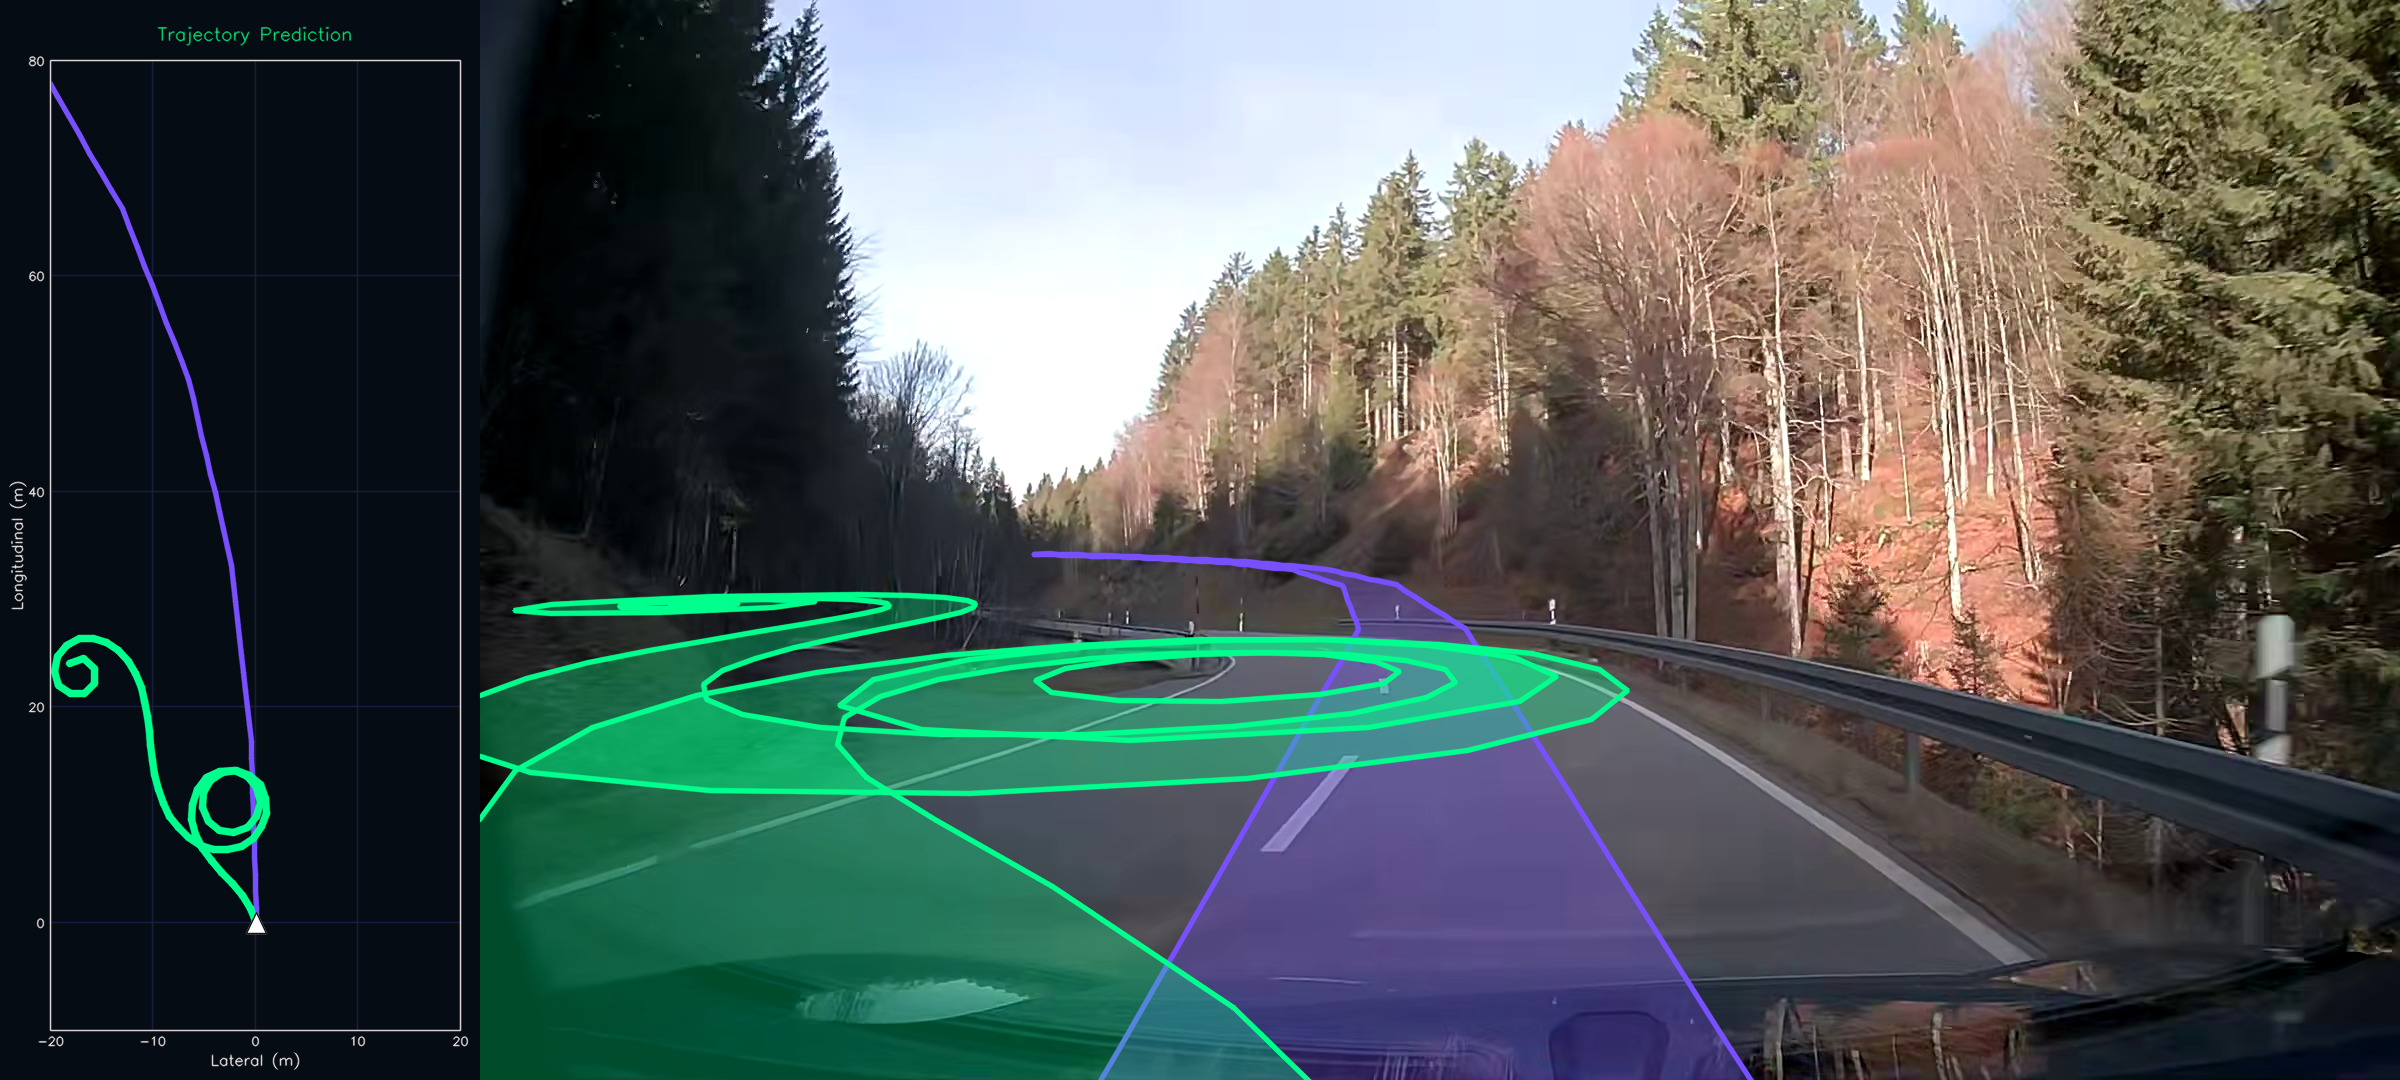
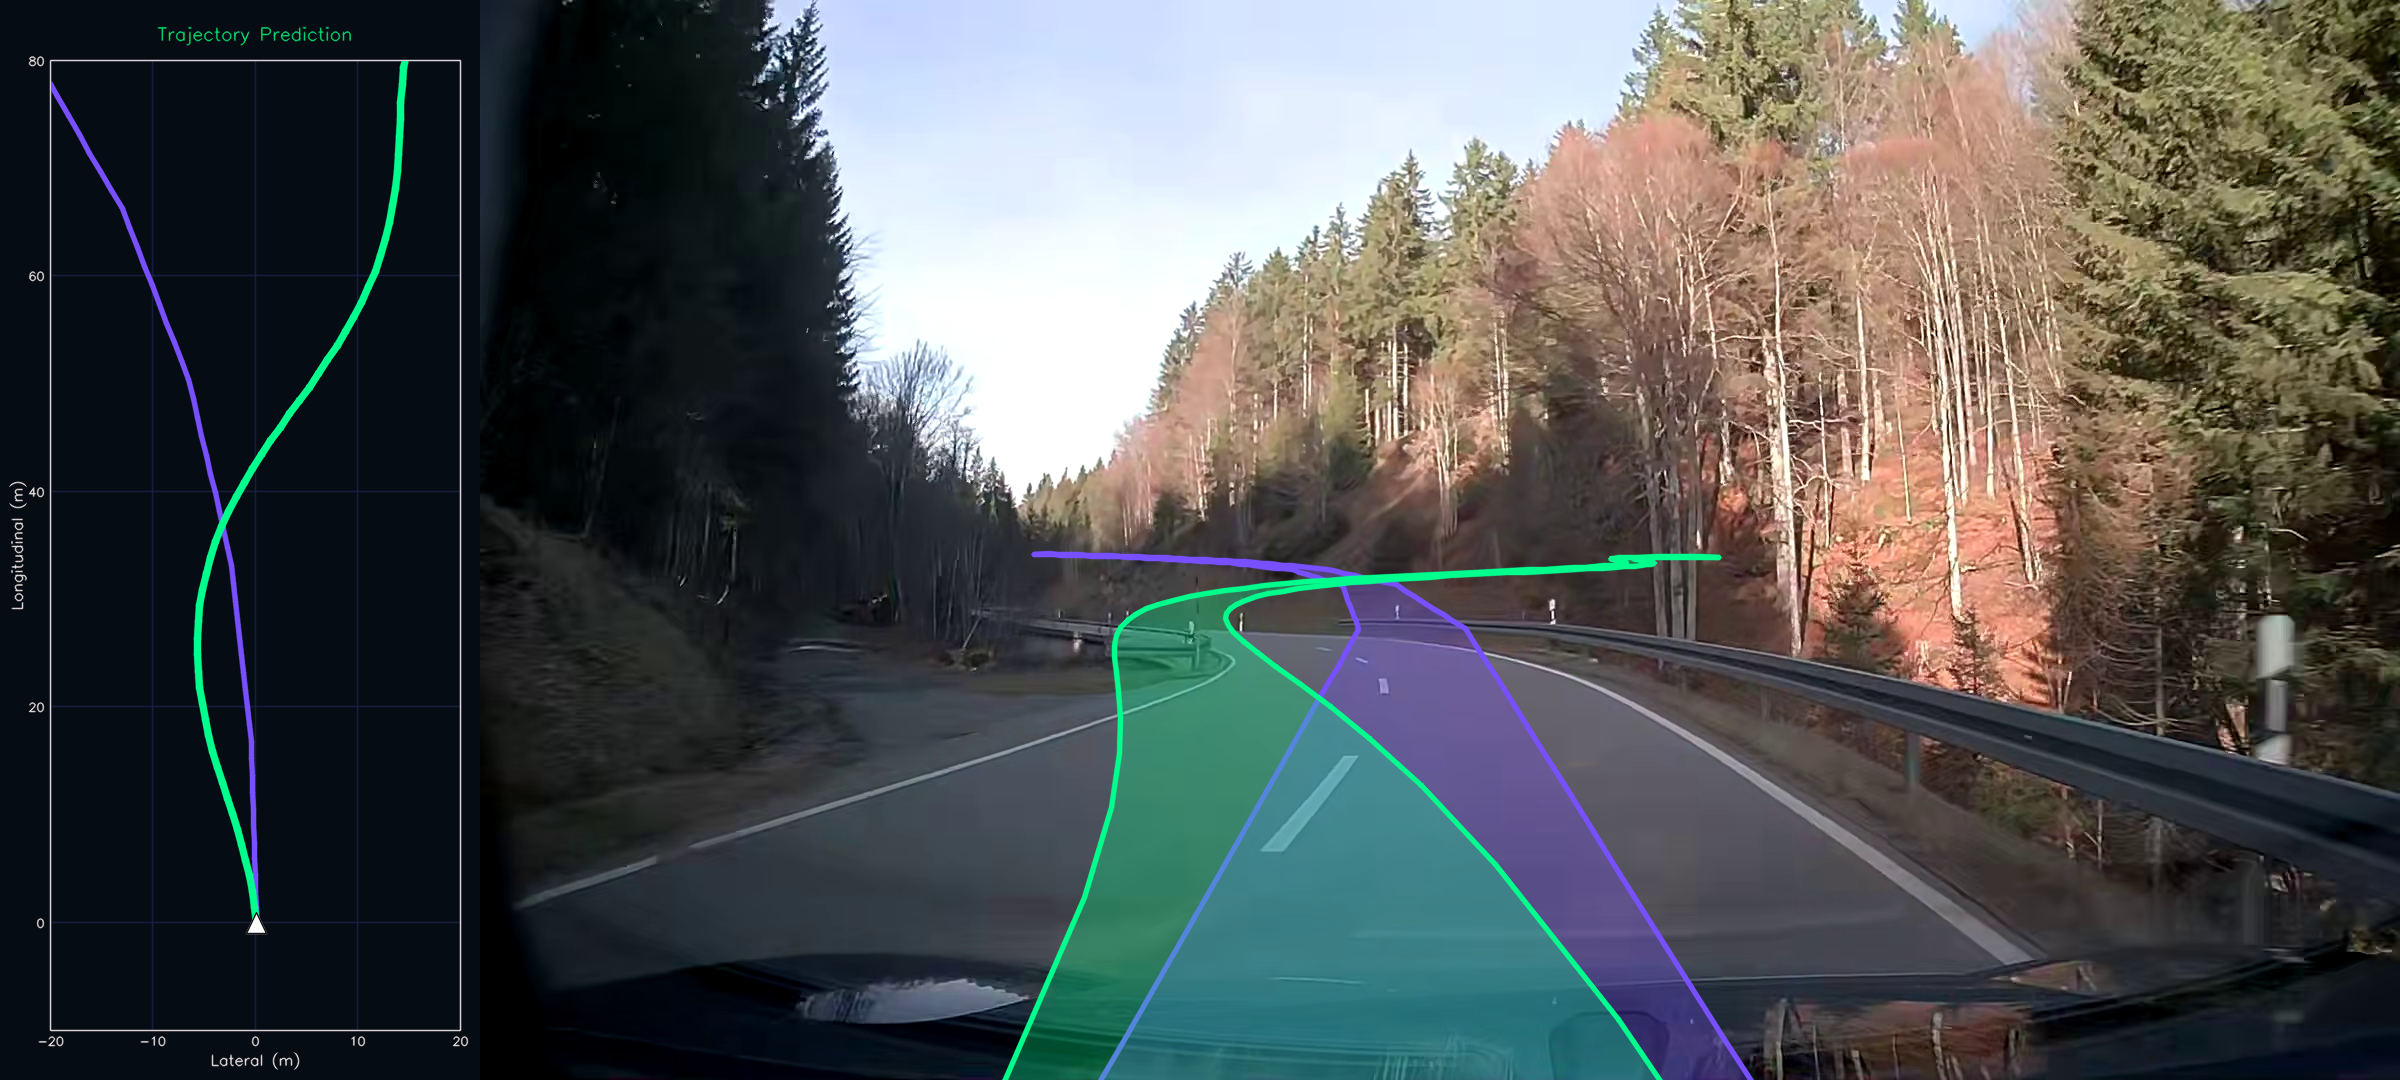
feat(trajectory-rendering): update README to describe the usage

diff --git a/Model/visualization/trajectory_rendering.py b/Model/visualization/trajectory_rendering.py
@@ -184,24 +184,36 @@ class Visualization:
     @staticmethod
     def render_trajectory_on_a_grid(
         action_sequence: torch.Tensor,
-        current_speed: float
+        current_speed: float,
+        actual_action_sequence: Optional[torch.Tensor] = None,
+        prediction_color: tuple = (140, 255, 0),
+        actual_trajectory_color: Optional[tuple] = (255, 80, 120)
     ) -> np.ndarray:
         """
-        Renders a predicted action sequence onto a standardized BEV grid visualization.
+        Renders predicted (and optionally actual) action sequences onto a standardized BEV grid visualization.
 
         Args:
-            action_sequence (torch.Tensor): Flattened tensor of predicted [acceleration, curvature].
+            action_sequence (torch.Tensor): Predicted trajectory [acceleration, curvature].
             current_speed (float): Current speed of the ego vehicle.
+            actual_action_sequence (Optional[torch.Tensor]): Ground truth trajectory.
+            prediction_color (tuple): Color for predicted trajectory.
+            actual_trajectory_color (tuple): Color for actual trajectory.
 
         Returns:
-            np.ndarray: An image array of the grid visualization with the predicted trajectory.
+            np.ndarray: An image array of the grid visualization.
         """
-        # 1. Convert trajectory to [x y] in meters
-        trajectory_m = Visualization.accel_and_curv_to_meters_trajectory(
-            action_sequence, current_speed, _FUTURE_TIMESTEPS, initial_heading=0.0
+        pred_m = Visualization.accel_and_curv_to_meters_trajectory(action_sequence, current_speed, _FUTURE_TIMESTEPS, initial_heading=0.0)
+                
+        act_m = None
+        if actual_action_sequence is not None:
+            act_m = Visualization.accel_and_curv_to_meters_trajectory(actual_action_sequence, current_speed, _FUTURE_TIMESTEPS, initial_heading=0.0)
+
+        grid_with_trajectory = Visualization.generate_grid(
+            prediction_m=pred_m, 
+            actual_trajectory_m=act_m,
+            prediction_color=prediction_color,
+            actual_trajectory_color=actual_trajectory_color
         )
-        # 2. Generate Grid and overlay trajectory
-        grid_with_trajectory = Visualization.generate_grid(prediction_m=trajectory_m)
 
         return grid_with_trajectory
 
@@ -209,7 +221,7 @@ class Visualization:
     def generate_grid(
         prediction_m: torch.Tensor, 
         actual_trajectory_m: Optional[torch.Tensor] = None,
-        prediction_color: Optional[tuple] = (140, 255, 0),
+        prediction_color: tuple = (140, 255, 0),
         actual_trajectory_color: Optional[tuple] = (255, 80, 120)
         ) -> np.ndarray:
         """
@@ -305,19 +317,19 @@ class Visualization:
 
         # Draw Actual Trajectory
         if actual_trajectory_m is not None:
-            pts_actual = []
+            pts = []
             for i in range(actual_trajectory_m.shape[0]):
-                pts_actual.append(to_px_local(float(actual_trajectory_m[i, 0]), float(actual_trajectory_m[i, 1])))
-            pts_actual_arr = np.array(pts_actual, np.int32).reshape((-1, 1, 2))
-            cv2.polylines(plot_canvas, [pts_actual_arr], isClosed=False, color=actual_trajectory_color, thickness=4, lineType=cv2.LINE_AA)
+                pts.append(to_px_local(float(actual_trajectory_m[i, 0]), float(actual_trajectory_m[i, 1])))
+            pts_arr = np.array(pts, np.int32).reshape((-1, 1, 2))
+            cv2.polylines(plot_canvas, [pts_arr], isClosed=False, color=actual_trajectory_color, thickness=4, lineType=cv2.LINE_AA)
             
-        # Draw Prediction
+        # Draw Predicted Trajectory
         if prediction_m is not None:
-            pts_pred = []
+            pts = []
             for i in range(prediction_m.shape[0]):
-                pts_pred.append(to_px_local(float(prediction_m[i, 0]), float(prediction_m[i, 1])))
-            pts_pred_arr = np.array(pts_pred, np.int32).reshape((-1, 1, 2))
-            cv2.polylines(plot_canvas, [pts_pred_arr], isClosed=False, color=prediction_color, thickness=6, lineType=cv2.LINE_AA)
+                pts.append(to_px_local(float(prediction_m[i, 0]), float(prediction_m[i, 1])))
+            pts_arr = np.array(pts, np.int32).reshape((-1, 1, 2))
+            cv2.polylines(plot_canvas, [pts_arr], isClosed=False, color=prediction_color, thickness=6, lineType=cv2.LINE_AA)
             
         # Draw Ego Vehicle (Filled triangle with outline)
         ego_px, ego_py = to_px_local(0, 0)

diff --git a/Model/visualization/Kit_Scenes_visualization/kit_scenes_visualizer.py b/Model/visualization/Kit_Scenes_visualization/kit_scenes_visualizer.py
@@ -47,13 +47,17 @@ def visualization_on_kit_scenes(scene_ids: Optional[list[str]] = None, frame_ind
         map_image = cv2.resize(map_image, (target_w, target_h), interpolation=cv2.INTER_LINEAR)
         resolution_m_px = resolution_m_px * (current_w / target_w)
 
+    # 0.5 Define color scheme
+    prediction_color = (140, 255, 0)
+    actual_trajectory_color = (255, 80, 120)
+
     # 1. Draw extracted ground truth (actual driven path) on map tile
     combined_img = Visualization.render_trajectory_map_tile(
         action_sequence=target_trajectory,
         current_speed=current_speed,
         map_image=map_image,
         resolution_m_px=resolution_m_px,
-        color=(255, 108, 59), # Orange target
+        color=actual_trajectory_color,
         initial_heading=current_heading
     )
 
@@ -63,17 +67,42 @@ def visualization_on_kit_scenes(scene_ids: Optional[list[str]] = None, frame_ind
         current_speed=current_speed,
         map_image=combined_img,
         resolution_m_px=resolution_m_px,
-        color=(164, 217, 52), # Green pred
+        color=prediction_color, 
         initial_heading=current_heading
     )
 
     # 3. Create Camera View with trajectory and Grid
-    camera_and_grid = Visualization.complete_front_camera_view_with_trajectory(
-        action_sequence_target=target_trajectory,
-        action_sequence_pred=pred_trajectory,
+    grid_with_trajectory = Visualization.render_trajectory_on_a_grid(
+        action_sequence=pred_trajectory,
         current_speed=current_speed,
-        front_camera_image=raw_camera_image,
-        P=P
+        actual_action_sequence=target_trajectory,
+        prediction_color=prediction_color,
+        actual_trajectory_color=actual_trajectory_color
+    )
+
+    cam_trajectory_view = raw_camera_image.copy()
+    
+    if target_trajectory is not None:
+        cam_trajectory_view = Visualization.complete_front_camera_view_with_trajectory(
+            action_sequence=target_trajectory,
+            current_speed=current_speed,
+            front_camera_image=cam_trajectory_view,
+            P=P,
+            color=actual_trajectory_color
+        )
+        
+    if pred_trajectory is not None:
+        cam_trajectory_view = Visualization.complete_front_camera_view_with_trajectory(
+            action_sequence=pred_trajectory,
+            current_speed=current_speed,
+            front_camera_image=cam_trajectory_view,
+            P=P,
+            color=prediction_color
+        )
+        
+    camera_and_grid = Visualization.concatenate_grid_and_camera(
+        grid_img=grid_with_trajectory,
+        cam_img=cam_trajectory_view
     )
 
     return combined_img, camera_and_grid

diff --git a/Model/visualization/L2D_visualization/run_l2d_visualization.py b/Model/visualization/L2D_visualization/run_l2d_visualization.py
@@ -63,29 +63,24 @@ def visualization_on_l2d(episodes: list[int], frame_index: int = 0, zoom_in: boo
         initial_heading=current_heading
     )
 
-    # 3. Generate Grid and overlay trajectory
-    # We must convert the raw action sequence (accel/curv) into metric [x, y] coordinates first
-    pred_trajectory_m = Visualization.accel_and_curv_to_meters_trajectory(
-        pred_trajectory, current_speed, 64, initial_heading=0.0
-    )
-    target_trajectory_m = Visualization.accel_and_curv_to_meters_trajectory(
-        target_trajectory, current_speed, 64, initial_heading=0.0
-    )
-    
-    grid_with_trajectory = Visualization.generate_grid(
-        prediction_m=pred_trajectory_m,
-        actual_trajectory_m=target_trajectory_m,
+    # 3. Create Camera View with trajectory and Grid
+    grid_with_trajectory = Visualization.render_trajectory_on_a_grid(
+        action_sequence=pred_trajectory,
+        current_speed=current_speed,
+        actual_action_sequence=target_trajectory,
         prediction_color=prediction_color,
         actual_trajectory_color=actual_trajectory_color
     )
 
+    # Load Extrinsics
+    yaml_path = os.path.join(os.path.dirname(os.path.abspath(__file__)), '..', '..', 'data_parsing', 'l2d', 'configs', 'extrinsic_RDF.yaml')
+    R, t = load_extrinsics(yaml_path, view_name="observation.images.front_left")
+    
     K = np.array([
         [1000, 0, front_image.shape[1] / 2],
         [0, 1000, front_image.shape[0] / 2],
         [0, 0, 1]
     ], dtype=np.float32)
-    R = np.eye(3, dtype=np.float32)
-    t = np.zeros((3, 1), dtype=np.float32)
 
     cam_trajectory_view = front_image.copy()
     
@@ -99,7 +94,7 @@ def visualization_on_l2d(episodes: list[int], frame_index: int = 0, zoom_in: boo
             t=t,
             color=actual_trajectory_color
         )
-        
+    
     if pred_trajectory is not None:
         cam_trajectory_view = Visualization.complete_front_camera_view_with_trajectory(
             action_sequence=pred_trajectory,

diff --git a/Model/visualization/README.md b/Model/visualization/README.md
@@ -1,54 +1,104 @@
 # Trajectory Visualization #
 
-This is implemented as a class. It contains 4 functions:
-* `accel_and_curv_to_meters_trajectory`
-* `meters_to_pixels_trajectory`
-* `overlay_the_trajectory_with_map`
+This is implemented as a class. It contains 3 key functions:
 * `render_trajectory_map_tile`
+* `render_trajectory_on_a_grid`
+* `complete_front_camera_view_with_trajectory`
+ 
+Function | `render_trajectory_map_tile` | `render_trajectory_on_a_grid` | `complete_front_camera_view_with_trajectory`
+-----|:----:|:---:|:---:
+View | Top-Down Map View | Grid View | Front Camera View
+Outputs | <img src="L2D_visualization/generated_images/visualization_result_map.png" alt="Top-Down Map View" height="100"> | <img src="L2D_visualization/generated_images/visualization_result_grid.png" alt="Grid View" height="100"> | <img src="L2D_visualization/generated_images/visualization_result_cam.png" alt="Front Camera View" height="100">
+Description | The top-down bird's eye view of the map tile with the drawn trajectory. | A 2D metric grid with the drawn trajectory. | A camera view with the perspective-correct 3D footprint trajectory drawn.
 
-## Complete function ##
+All the visualization is done using OpenCV, which should *theoretically* allow for effective video generation.
+
+## Usage ##
 
 ### `render_trajectory_map_tile`
 
-Integrates predicted trajectory into metric coordinates and 
-draws them onto the raw BEV map tile.
+Overlays the trajectory directly onto a top-down BEV map tile.
 
-It takes four inputs:
-* `action_sequence`: (128, ) flattened (64, 2) $[acceleration, curvature]$ tensor.
-It is the exact format of the trajectory outputted by `model()` function.
-* `current_speed`: Scalar float from the egomotion history. 
-This should be extracted from the egomotion history
-* `map_image`: A map tile, not normalized. 
-Ideally, it should follow L2D format. 
-If the dataset does not provide maps directly, but provides GPS history, 
-please use already existing [map generation function](https://github.com/autowarefoundation/auto_e2e/tree/main/Model/data_parsing/map_rendering)
-to get a map tile.
-* `radius_m`: The metric boundary of the `map_image` in meters.
+* `action_sequence`: A flattened tensor `(128,)` of predicted `[acceleration, curvature]`. This is the exact format outputted by the `model()` function.
+* `current_speed`: The ego vehicle's current speed in m/s.
+* `map_image`: Must be a map tile, not normalized. If the dataset does not provide maps directly, but provides GPS history, please use the already existing [map generation function](https://github.com/autowarefoundation/auto_e2e/tree/main/Model/data_parsing/map_rendering) to get a map tile.
+* `resolution_m_px`: The metric resolution of the map image (meters per pixel).
+* `color`: The BGR color tuple for the trajectory line (e.g., `(0, 255, 0)` for green).
+* `initial_heading`: The initial heading of the ego vehicle in radians.
 
-Returns:
-* A new Image with the trajectory drawn on it.
+**Example Usage:**
+```python
+from visualization.trajectory_rendering import Visualization
 
-## Helper functions ##
+map_with_trajectory = Visualization.render_trajectory_map_tile(
+    action_sequence=pred_trajectory,
+    current_speed=10.5,
+    map_image=my_map_tile_bgr,
+    resolution_m_px=0.4,
+    color=(164, 217, 52), # Green
+    initial_heading=0.0
+)
+```
 
-### `accel_and_curv_to_meters_trajectory`
-Takes an action sequence containing pairs of acceleration ($m/s^2$) and curvature ($rad/m$), the ego vehicle's current speed, and a defined number of future timesteps. 
-It integrates these values over time using a kinematic model to produce a tensor of metric $(X, Y)$ coordinates. The ego vehicle is positioned at the origin $(0.0, 0.0)$, with forward movement mapped to the positive $Y$-axis.
+### `render_trajectory_on_a_grid`
 
-### `meters_to_pixels_trajectory`
-Converts the metric trajectory tensor into 2D image pixel coordinates $(U, V)$. It scales the coordinates based on the pixel dimensions of the provided map image and the metric boundary `radius_m`.
+Draws the trajectory on a generated 2D metric grid, useful when a map tile is not available or for analyzing pure kinematic shapes.
 
-### `overlay_the_trajectory_with_map`
-Uses PIL's `ImageDraw` module to render the trajectory as a continuous green line directly onto a copy of the BEV map image. It also draws a red circle at the trajectory's origin to indicate the ego vehicle's current position.
+* `action_sequence`: The predicted `(128,)` trajectory tensor.
+* `current_speed`: The ego vehicle's current speed in m/s.
+* `actual_action_sequence` (optional): The target/ground-truth `(128,)` trajectory tensor.
+* `prediction_color` (optional): Color for the predicted trajectory. Defaults to `(140, 255, 0)`.
+* `actual_trajectory_color` (optional): Color for the actual trajectory. Defaults to `(255, 80, 120)`.
 
-The scale is assumed
-A projection matrix has to be derived for each dataset
+**Example Usage:**
+```python
+grid_image = Visualization.render_trajectory_on_a_grid(
+    action_sequence=pred_trajectory,
+    current_speed=10.5,
+    actual_action_sequence=target_trajectory
+)
+```
+
+### `complete_front_camera_view_with_trajectory`
+
+Projects and renders the 3D footprint of a trajectory onto a 2D front camera image using perspective-correct polygons and semi-opaque fill.
+
+* `action_sequence`: The predicted `(128,)` trajectory tensor.
+* `current_speed`: The ego vehicle's current speed in m/s.
+* `front_camera_image`: The raw, unnormalized BGR camera image.
+* `P`: The 3x4 Camera Projection Matrix. If `P` is not provided, you must provide `K` (Intrinsics), `R` (Rotation), and `t` (Translation).
+* `color`: The BGR color tuple for the semi-opaque footprint (e.g., `(52, 217, 164)`).
+
+**Example Usage:**
+```python
+# Draw target trajectory
+cam_view = Visualization.complete_front_camera_view_with_trajectory(
+    action_sequence=target_trajectory,
+    current_speed=10.5,
+    front_camera_image=raw_camera_image.copy(),
+    K=K,
+    R=R,
+    t=t,
+    color=(255, 80, 120)
+)
+
+# Draw predicted trajectory over the same image
+cam_view = Visualization.complete_front_camera_view_with_trajectory(
+    action_sequence=pred_trajectory,
+    current_speed=10.5,
+    front_camera_image=cam_view,
+    K=K,
+    R=R,
+    t=t,
+    color=(140, 255, 0)
+)
+
+# Optionally concatenate with the grid view
+final_view = Visualization.concatenate_grid_and_camera(grid_image, cam_view)
+```
 
 ## Dependencies ##
 
-You would have all the required dependencies if you followed the [Autoware E2E installation instructions](https://github.com/autowarefoundation/auto_e2e).
+To use `Visualization` class, you would have all the required dependencies if you followed the [Autoware E2E installation instructions](https://github.com/autowarefoundation/auto_e2e). No extra packages are needed.
 
-If you wish to run the live visualization script (`--live`) to test predictions using real dataset records, you will additionally need the [L2D dependencies](https://github.com/autowarefoundation/auto_e2e/tree/main/Model/data_parsing/l2d) 
-
-## TODO ##
-
-A function to draw the trajectory on the camera view is yet to be added.
+If you wish to run the live visualization script (`--live`) on L2D dataset to test visualization using real records, you will additionally need the [L2D dependencies](https://github.com/autowarefoundation/auto_e2e/tree/main/Model/data_parsing/l2d) 
